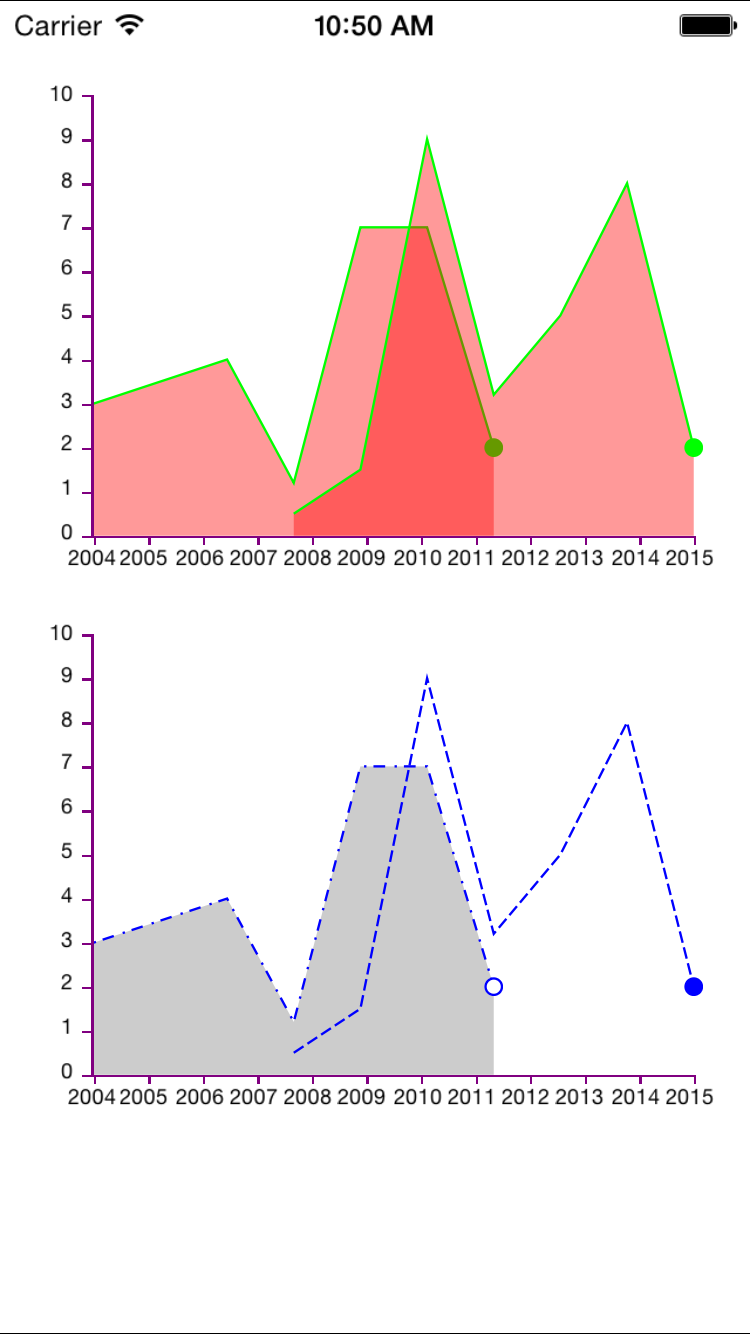
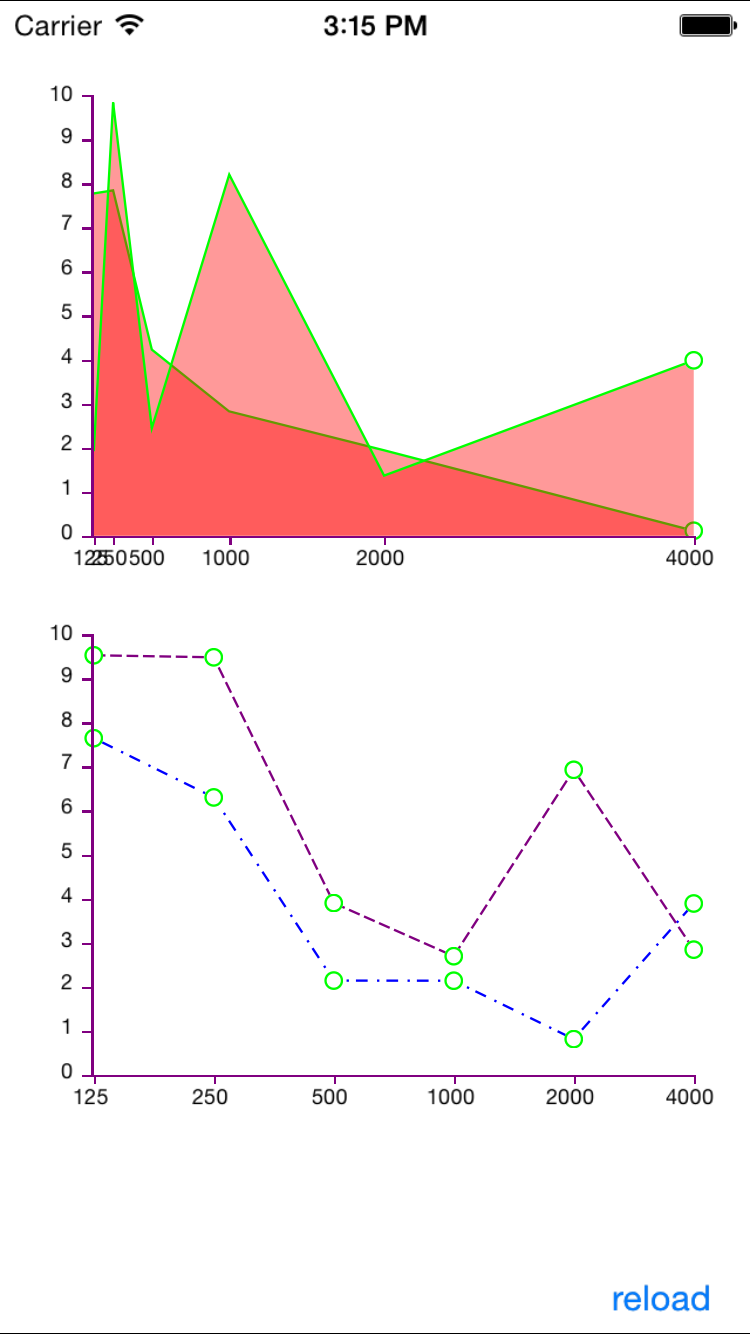
Release 0.3.1

diff --git a/README.md b/README.md
@@ -5,9 +5,27 @@
 [![License](https://img.shields.io/cocoapods/l/MBXGraphs.svg?style=flat)](http://cocoadocs.org/docsets/MBXGraphs)
 [![Platform](https://img.shields.io/cocoapods/p/MBXGraphs.svg?style=flat)](http://cocoadocs.org/docsets/MBXGraphs)
 
-MBXGraphs is a library to display one or more line graphs in a chart, with several displaying options (fill, no fill, dashed line, end-marker, etc.). The library also takes care about the XY axis, being able to customize them and displaying nice and distributed intervals.
+MBXGraphs is a library to display one or more line graphs in a chart, with several displaying options (fill, no fill, dashed line, end-marker, etc.). The library also takes care about the XY axes, being able to customize them and displaying nice and distributed intervals.
 
 It can be used with nib files as well as by code created views.
+
+####Features:
+The type of distribution on the axes can be chosen, there are two options
+
+* MBXLineGraphDataSourceAxisCalcValueDistribute
+Distributes the axes values taking into consideration the values gotten from the data.
+
+* MBXLineGraphDataSourceAxisCalcEquallyDistribute
+Distributes the axes values evenly throughout the view, not taking into consideration the values. Good for logarithmic distributed axes.
+
+The distribution of tickmarks can be chosen on the axes
+* MBXLineGraphDataSourceAxisCalcAutoTickmark
+Automatically calculates the best and "nicest" distribution and values to show on the axes. Gives somes space at the beginning and at the end to make the graph look nicer. Good for Y axes values.
+
+* MBXLineGraphDataSourceAxisCalcValueTickmark
+Uses the exact values from the data set as tickmarks and values to shw on the axes. Good for X axes values.
+
+
 
 ![Graphs image](Screenshots/graph-nib-code.png)
 
@@ -24,7 +42,7 @@ it, simply add the following line to your Podfile:
 
 ## Code Example
 
-```
+```objectivec
 #import "MBXViewController.h"
 #import "MBXLineGraphDataSource.h"
 #import "MBXGraphView.h"
